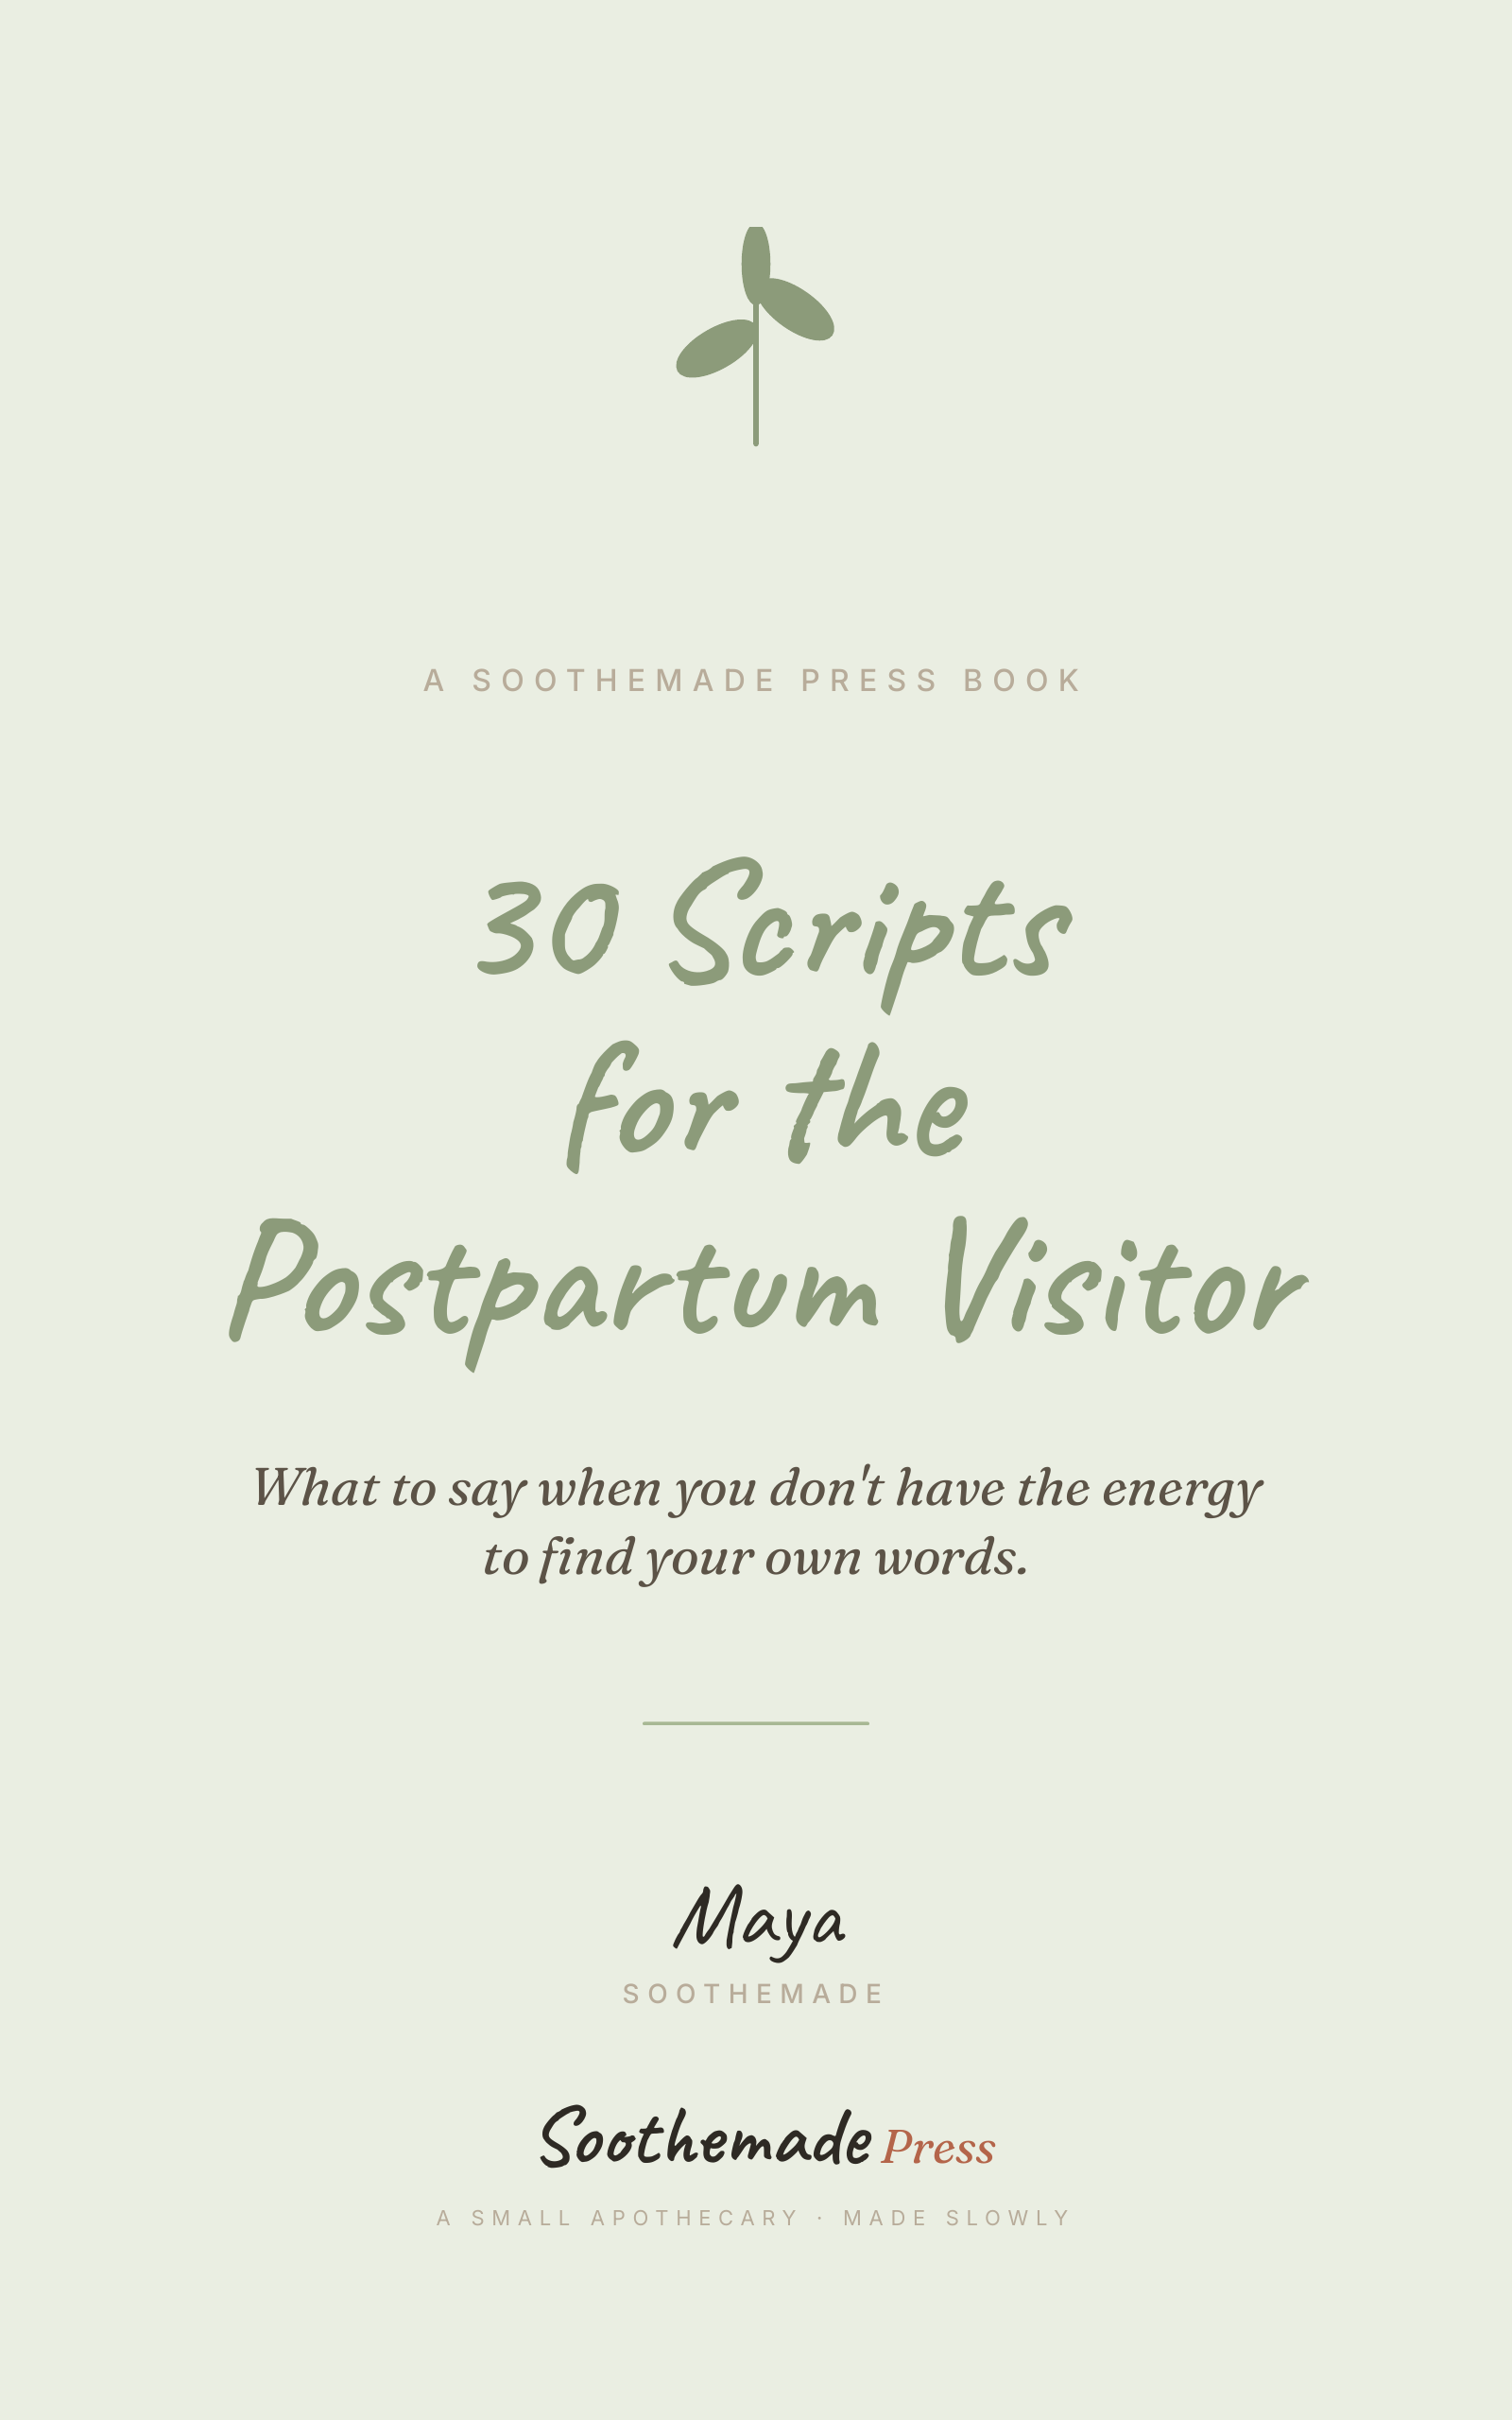
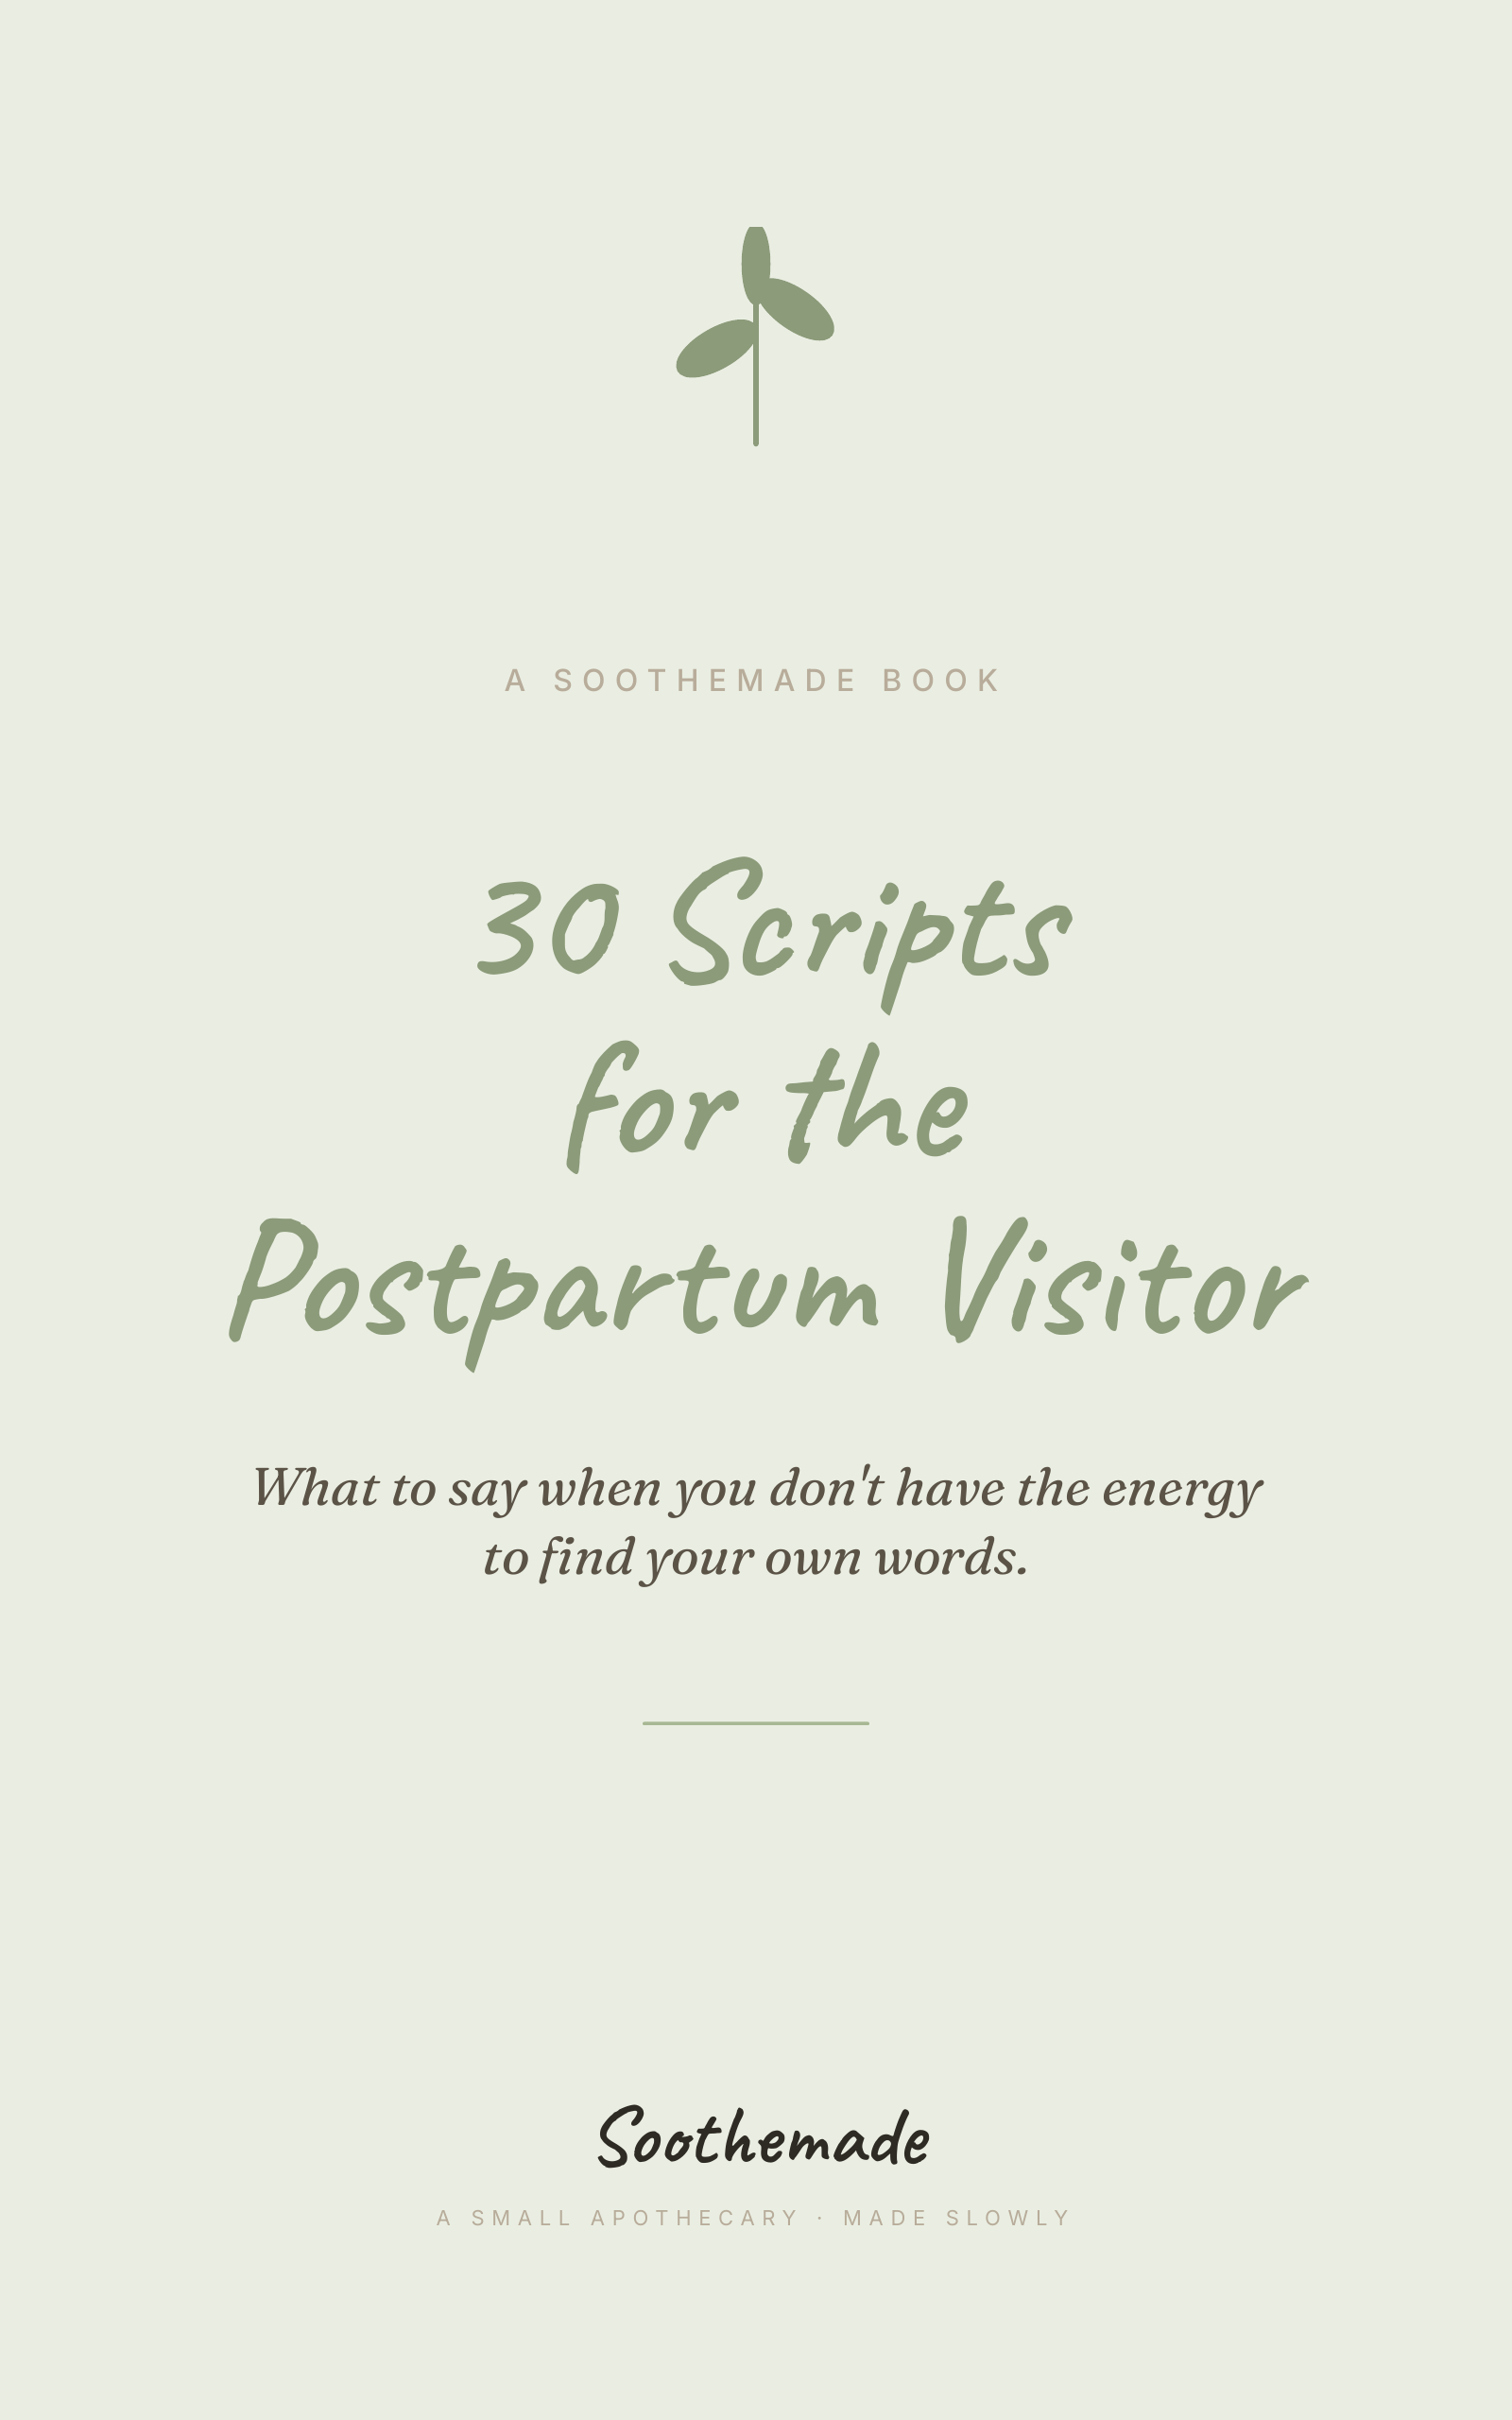
B01: drop "Soothemade Press" sub-brand, remove Maya from cover
Owner call after the launch: one brand is simpler than two, and the
Kindle "publisher" field reads cleaner as plain Soothemade.

Cover:
- "A Soothemade Press Book" → "A Soothemade Book" (top plate)
- Removed the Maya + Soothemade small-caps author block from below
  the divider. Maya is the voice inside the book, not the byline
  on the cover, mirroring the existing PDF cover convention.
- "Soothemade Press" → "Soothemade" (bottom wordmark, terracotta
  "Press" italic span removed).

Metadata + manuscript:
- metadata.yaml: author Maya → Soothemade, publisher Press →
  Soothemade, identifier soothemade-press-b01 → soothemade-b01
- manuscript YAML header: same author + publisher swap
- "About Soothemade Press" back matter renamed to "About Soothemade"
  with framing rewritten (books as part of the apothecary, not a
  separate imprint)
- Closing line "A Soothemade Press book" → "A Soothemade book"
- "Also from Soothemade" cross-sell B02 mention updated

AS_BUILT § 2: reverted. Press is back to "Reserved, not built" with
a note that books ship under the master brand.

Also adding a .gitignore. The repo never had one (per AS_BUILT § 8
the convention has been informal); .claude/ and .tmp/ build artifacts
have been managed by careful git-add discipline. Codifying the rule
so the next git-add doesn't accidentally sweep worktrees.

Cover re-rendered (137KB, slightly smaller than 152KB after the
author-block removal). book.epub regenerated (148KB).

Changed region(s): [[0.3438, 0.875, 0.6562, 0.9062], [0.4375, 0.7812, 0.5625, 0.8438]]

diff --git a/ebooks/B01_30-scripts-postpartum-visitor/cover.html b/ebooks/B01_30-scripts-postpartum-visitor/cover.html
@@ -154,7 +154,7 @@ html, body {
     <ellipse cx="138" cy="80" rx="44" ry="20" fill="#8C9B7A" transform="rotate(35 138 80)"/>
   </svg>
 
-  <div class="imprint-plate">A Soothemade Press Book</div>
+  <div class="imprint-plate">A Soothemade Book</div>
 
   <h1 class="title">30 Scripts<br>for the<br>Postpartum Visitor</h1>
 
@@ -162,12 +162,9 @@ html, body {
 
   <div class="divider"></div>
 
-  <div class="author">Maya<small>Soothemade</small></div>
-
   <div class="foot">
     <div class="foot-mark">
       <span class="foot-soothemade">Soothemade</span>
-      <span class="foot-press">Press</span>
     </div>
     <div class="foot-tag">A Small Apothecary · Made Slowly</div>
   </div>

diff --git a/ebooks/B01_30-scripts-postpartum-visitor/epub.css b/ebooks/B01_30-scripts-postpartum-visitor/epub.css
@@ -1,5 +1,5 @@
 /*
- * Soothemade Press epub stylesheet
+ * Soothemade ebook stylesheet
  *
  * Kindle and most readers strip a lot of CSS for accessibility
  * (user-controlled font, sizing, etc). Keep this minimal: structure,

diff --git a/ebooks/B01_30-scripts-postpartum-visitor/manuscript.md b/ebooks/B01_30-scripts-postpartum-visitor/manuscript.md
@@ -1,8 +1,8 @@
 ---
 title: "30 Scripts for the Postpartum Visitor"
 subtitle: "What to say when you don't have the energy to find your own words"
-author: "Maya"
-publisher: "Soothemade Press"
+author: "Soothemade"
+publisher: "Soothemade"
 rights: "© 2026 Soothemade. Personal use only. All other rights reserved."
 language: en-US
 ---
@@ -440,13 +440,13 @@ Maya is the voice behind Soothemade. A postpartum doula and mother of two, she w
 
 She is a fictional founder, a composite of every parent who has emailed Soothemade to say "I felt like you had been in my house." That composite voice is the brand voice. The decisions, the products, and this book were all written under that voice.
 
-# About Soothemade Press
+# About Soothemade
 
-Soothemade Press is the books imprint of Soothemade, a small apothecary of printables, planners, and cards for new parents.
+Soothemade is a small apothecary of printables, planners, cards, and books for new parents.
 
-The Press exists for the moments when a journal does not fit the need. When you want to read, not write. When you are looking up the chapter at 3am on your phone, not pulling a printed page out of a drawer.
+The books exist for the moments when a journal does not fit the need. When you want to read, not write. When you are looking up the chapter at 3am on your phone, not pulling a printed page out of a drawer.
 
-Each book in the Press is adapted from a Soothemade Notes printable. The printable version contains writing space and prompts. The book version contains the reading. Both work. Some readers want one, some want the other, some want both. You can find the printable version of every book at notes.soothemade.com.
+Each book is adapted from a Soothemade printable. The printable version contains writing space and prompts. The book version contains the reading. Both work. Some readers want one, some want the other, some want both. You can find the printable version of every book at notes.soothemade.com.
 
 # Also from Soothemade
 
@@ -456,7 +456,7 @@ Other Soothemade products that pair with this book:
 
 - **The Partner's Postpartum Playbook**, for the non-birthing partner. Many of the scripts in this book are most effective when your partner is the one delivering them. The Playbook is their companion.
 - **The Visitor Welcome Packet**, for when you are ready for visitors. Ground rules, food drop menu, "how to help" list, and a meal-train tracker.
-- **The Asking for Help Script Pack**, the inverse of this book. Thirty scripts for asking specific people for specific help. The book version is coming as the second title from Soothemade Press.
+- **The Asking for Help Script Pack**, the inverse of this book. Thirty scripts for asking specific people for specific help. The book version is the second Soothemade title, coming next.
 
 # Crisis lines
 
@@ -486,4 +486,4 @@ Postpartum mood disorders are common and treatable. Asking for help is not a sig
 
 *This book is for planning and personal use only. It is not legal, medical, or psychological advice. For specific concerns about your postpartum recovery or your baby's health, please follow your obstetric and pediatric providers' guidance.*
 
-*A Soothemade Press book. Made slowly, in plain language.*
+*A Soothemade book. Made slowly, in plain language.*

diff --git a/ebooks/B01_30-scripts-postpartum-visitor/OUTLINE.md b/ebooks/B01_30-scripts-postpartum-visitor/OUTLINE.md
@@ -5,14 +5,14 @@
 **30 Scripts for the Postpartum Visitor**
 *What to say when you don't have the energy to find your own words*
 
-By Maya | Soothemade Press
+By Maya | Soothemade
 
 ## Structure
 
 ### Front matter
 
 - **Title page**: Title, subtitle, author, imprint
-- **Copyright page**: © 2026 Soothemade Press / Soothemade. Personal use. Crisis-line reference.
+- **Copyright page**: © 2026 Soothemade / Soothemade. Personal use. Crisis-line reference.
 - **Dedication**: "For the parent at the door, in the third day, in the fourth trimester."
 - **Table of Contents**: Generated from headings
 - **A note from Maya**: ~300 words, expanded from the PDF intro
@@ -42,7 +42,7 @@ By Maya | Soothemade Press
 ### Back matter
 
 - **About Maya**: ~100 words, fictional-founder framing per brand persona.
-- **About Soothemade Press**: ~100 words, the imprint's mission.
+- **About Soothemade**: ~100 words, the imprint's mission.
 - **Also from Soothemade**: cross-sell to the printable version (P02) + adjacent products (P04, P15, P49, P55).
 - **Crisis-line page**: PSI, MMH hotline, 988, international equivalents.
 
@@ -59,6 +59,6 @@ Nothing significant. The PDF was already content-dense; the ebook is the same co
 
 1. The "Why No Is Hard Postpartum" chapter (the most important addition — frames the whole book)
 2. Section intros for each chapter (gives reading flow vs. just-a-list-of-scripts)
-3. "About Maya" + "About Soothemade Press"
+3. "About Maya" + "About Soothemade"
 4. Cross-sells / "Also from..." back-matter page
 5. Expanded crisis-line page (more lines, US + UK + Canada + Australia)

diff --git a/ebooks/B01_30-scripts-postpartum-visitor/README.md b/ebooks/B01_30-scripts-postpartum-visitor/README.md
@@ -1,6 +1,6 @@
 # B01 — 30 Scripts for the Postpartum Visitor
 
-The first book under **Soothemade Press**. Adapted from the printable P02 "Saying No" Script Pack.
+The first book under **Soothemade**. Adapted from the printable P02 "Saying No" Script Pack.
 
 ## Source
 
@@ -16,7 +16,7 @@ Type 1 conversion (read-ready). The PDF was already 95% narrative content. The a
 - Each PDF "Section" becomes a numbered **Chapter** with a 150-250 word chapter intro that frames the scripts.
 - The 30 scripts and 5 templates are kept **verbatim** — they are the core product.
 - A new chapter "Why 'No' Is Hard Postpartum" expands the intro.
-- Back matter (about Maya, about Soothemade Press, also-from-the-imprint cross-sells, crisis line) added.
+- Back matter (about Maya, about Soothemade, also-from-the-imprint cross-sells, crisis line) added.
 - No fillable elements (this is a read, not a journal).
 
 ## Files

diff --git a/AS_BUILT.md b/AS_BUILT.md
@@ -37,10 +37,10 @@ After you've finished a change, scan this file's section for that area and amend
 |---|---|---|---|
 | **Master brand** | **Soothemade** | `soothemade.com` (owned) | Active; umbrella site is a one-page intro |
 | **Active sub-line** | **Soothemade Notes** | `notes.soothemade.com` | Live on Cloudflare Workers |
-| **Active sub-line** | **Soothemade Press** | `press.soothemade.com` (reserved) | Books imprint, .epub format for Kindle + direct sales. First title shipped 2026-05-20. See § 19. |
 | Reserved sub-line | Soothemade Kitchen | `kitchen.soothemade.com` | Reserved, not built |
 | Reserved sub-line | Soothemade Studio | `studio.soothemade.com` | Reserved, not built |
 | Reserved sub-line | Soothemade Field | `field.soothemade.com` | Reserved, not built |
+| Reserved sub-line | Soothemade Press | `press.soothemade.com` | Reserved, not built. Books ship under the master `Soothemade` brand instead. |
 
 Sub-lines share: voice, visual identity, brand kit, typography, structural rules. They differ in: audience-specific vocabulary, example scenarios, accent-color emphasis.
 
@@ -900,6 +900,7 @@ After running, commit the seven `product.pdf` files.
 
 One line per commit that changes structural project state. Most-recent first.
 
+- **2026-05-28** — **Dropped the "Soothemade Press" sub-brand. Books ship under just "Soothemade." Maya removed from the front cover.** Same-day follow-up to the B01 launch commit. Owner call: one brand is simpler than two, and the customer-facing "publisher" field on Kindle reads cleaner as plain `Soothemade`. AS_BUILT § 2 reverted, Press is back to "Reserved, not built" with a note that books ship under the master brand. **Cover changes:** "A Soothemade Press Book" → "A Soothemade Book" (top plate); removed the `Maya` + `Soothemade` author block from below the divider (Maya is the voice inside the book, not the byline on the cover, mirroring the existing PDF cover convention where the brand mark is on the cover and Maya signs the content); "Soothemade Press" → "Soothemade" (bottom plate, terracotta "Press" italic span deleted). **Metadata changes:** `author: Maya` → `author: Soothemade`, `publisher: Soothemade Press` → `publisher: Soothemade` (both in metadata.yaml and the manuscript YAML header). **Manuscript back-matter changes:** "About Soothemade Press" page renamed to "About Soothemade" with the framing rewritten to describe books as part of the apothecary (alongside printables/planners/cards) rather than a separate imprint. Closing line "A Soothemade Press book. Made slowly, in plain language." → "A Soothemade book. Made slowly, in plain language." The "Also from Soothemade" cross-sell page already used the right framing; B02 mention rewritten from "the second title from Soothemade Press" to "the second Soothemade title, coming next." README, OUTLINE, epub.css comments all swept for Press references. Cover re-rendered (130KB after the removal, slightly smaller than the 152KB version). Book.epub re-rendered. Visual verification: cover inspected, cleaner without the author block, sage divider now anchors visually to the bottom plate without competing typography in between.
 - **2026-05-28** — **Launched Soothemade Press. First ebook (B01) shipped: *30 Scripts for the Postpartum Visitor*.** New imprint, new product line, new repo top-level: `ebooks/`. The Press is the books-format arm of Soothemade, parallel to Notes (printables). Brand-architecture status moves from "Reserved" to "Active sub-line" in § 2. Adaptation strategy: each book is its own product, not "a PDF without the lines" — the conversion from fillable journal to readable book is a real rewrite that adds book-shaped front matter (title page, dedication, TOC, expanded "note from Maya"), per-chapter intros that frame the material, and back matter (about Maya, about the Press, cross-sells, expanded crisis-line page). B01 source: P02 "Saying No" Script Pack (postpartum/Wave 1 anchor). 16 chapters: dedication + 10 numbered chapters + back matter. ~7,500 words. Front-matter is voice-of-Maya, body is the 30 scripts verbatim (the core product stays untouched), each chapter has a 150-250 word intro that gives reading flow vs the printable's standalone-page format. New tooling: `soothemade-ebook` Docker image extends `soothemade-render-preview` with pandoc + imagemagick. `scripts/render_ebook.py` is a thin wrapper that (a) renders `cover.html` → PNG at 1600×2560 via WeasyPrint + pdftoppm, (b) runs pandoc with `--epub-cover-image` + `--css epub.css` + metadata.yaml, (c) outputs `book.epub` (163KB for B01). Pandoc cwd-fix: command runs inside the book dir so the metadata.yaml's relative paths (`cover-image: cover.png`, `css: epub.css`) resolve. AI-punctuation scrubber updated to walk `ebooks/B*_*/manuscript.md` as well as `products/`. **Cover design language:** sage paper (#EAEEE2), Caveat title in primary sage (#8C9B7A), Fraunces italic subtitle in ink-soft (#5C5347), muted-sage divider, Caveat author signoff with Inter small-caps imprint plate below, custom SVG sprig at top, "Soothemade Press" wordmark at bottom in Caveat + Fraunces italic terracotta (the same "Notes" treatment but with Press in terracotta). Visual verification: cover.png inspected, brand-consistent with the existing PDF cover language, would-be-recognizable on a Kindle shelf next to the 11 future titles in the planned bibliography. **Bibliography roadmap (12 books):** Tier 1 read-ready (B1 P02 ✓, B2 P49 Asking for Help, B3 P34 Newborn Cue Decoder, B4 P13 Big Feelings, B5 P51 Pregnancy Safety Reference). Tier 2 needs adaptation (B6 P52 Birth Anxiety, B7 P03 Slow Motherhood manifesto, B8 P04 Partner Postpartum, B9 P55 Partner Pregnancy, B10 P07 Newborn Survival, B11 P46 Eldercare First 90 Days, B12 P50 Family Caregiver). Tier 3 hold (P08/P11/P35/P36/P41/P53/P56 are pure journals, do not convert). Pricing direction: $4.99 per book on Kindle (70% royalty bracket). KDP upload + distribution are user-driven, not in this commit.
 - **2026-05-22** — **Replaced the PMP-imported rules with a Soothemade-native care contract. Locked the persona to Maya. Catalog-wide signature swap. All 55 PDFs re-rendered. Catalog now scores 55/55 against the care contract.** The earlier same-day commit adopted `varunvashisht1/VarunVashisht-Web/WRITING-RULES.md` as a literal contract. That was the wrong framing: the PMP doc was an *example* of what a quality contract looks like, not the contract itself. The right contract for Soothemade is the one in the rewritten `WRITING-RULES.md` — six care signals organized around whether a paying customer feels cared for. The signals: (1) scene anchor in the opening note (concrete time / room / body / overheard line); (2) the voice has a face (`*With care, Maya*` signoff); (3) disclaimer voiced not armored (P09 is the model); (4) modest about what it does (no `transform`, `unlock`, `you deserve`, `breakthrough`); (5) hard things named not euphemized (`mom rage`, `loss`, `the primary witness of someone else's diminishment`); (6) each product is its own shape (catalog-wide form variety check). **Persona locked to Maya** (Option B in `brand/persona.md`, previously default-not-locked). All 92 personal-note signoffs across 55 product `content.md` files swapped from `*Soothemade*` to `*With care, Maya*` via `.tmp/apply_maya_signoff.py` (dry-run + apply pattern). Mirrors the umbrella's `*with care, the studio*` pattern, adapted to remove the banned em-dash. The brand mark `Soothemade` continues to render on PDF cover + colophon via the template — Maya is the personal voice, Soothemade is the studio. **Targeted content fixes:** P23 `content.md:25` "I screamed at my three-year-old in the laundry room when he was four" — dropped the trailing "when he was four" continuity error (the most-quoted opening sentence in the catalog now reads cleanly). P04 `content.md:279` "Other parents look like they're crushing it. They're not." → "Other parents look like they have it figured out. They don't." — preserves the voice-defining puncture without the wellness-mill `crushing it` phrase. P55 `content.md:657` worksheet field "WHAT I WANT FOR MYSELF, IN THIS NEW CHAPTER" → "WHAT I WANT FOR MYSELF, ONCE THE BABY IS HERE" — plainer, less generic-wellness. P54 `content.md:9-11` opening rewritten to add scene anchors — "You have a 10am meeting tomorrow, an OB appointment Thursday afternoon, and you have not told anyone at the office yet" — the only product that was failing Signal 1. **Auditor rebuilt** (`scripts/audit_writing_rules.py`) from a regex-hygiene checker into a per-product care scorecard. Six signals scored. Code blocks (read-aloud scripts, ASCII template fields) and `*"..."*` quoted critiques are stripped before scanning for banned vocabulary — the rules apply to the brand's voice, not to phrases the brand is quoting back to puncture. **All 55 PDFs re-rendered** via Docker `--all`; `pdfs/` flat-folder mirror updated. **Final state:** 55/55 products pass all four per-product signals. Catalog-wide: 0 disclaimer-reuse clusters of 4+ products (disclaimers are already varied). 7/55 (13%) of products use the `## What this [X] is, and is not` H2 framework — well below the 50% template-uniformity threshold.
 - **2026-05-22** — **Adopted extended writing-quality rules from the PMP audit lineage. Catalog-wide PDF audit + 7 targeted fixes across 6 products.** New repo-root doc `WRITING-RULES.md` adapts `varunvashisht1/VarunVashisht-Web/WRITING-RULES.md` (the quality gates that produced the audited PMP V8 Study Guide) to Soothemade. Imports 20 banned AI-tell terms, the filler-phrase ban, density rules (paragraphs ≤600 chars, sentences ≤50 words), substance + rhythm + repetition rules. Documents Soothemade-specific carve-outs inline: (a) `actually` is preserved as voice-defining ("what actually moves supply", "meals you actually like" — the brand's truth-vs-performance wedge); (b) `harness` as a physical noun stays (car-seat harness, high-chair harness); (c) literal time-of-day uses of "at the end of the day" stay; (d) American spelling held (audience is US new parents, crisis lines are US-based — British would clash); (e) PMP's "Industry Term (Plain question)" pattern does not fit Soothemade's intimate voice and is skipped. New auditor `scripts/audit_writing_rules.py` is read-only, walks every `content.md` + `web.md`, flags violations with file + line + matched text. Catalog-wide audit (55 products, 110 files) found only the long tail — Soothemade's existing voice guide and punctuation scrubber had already driven content to a high baseline. Seven content fixes applied: (1) P30 `content.md:401` "biggest leverage point" → "biggest single thing you can do". (2) P50 `content.md:772` "Leveraging employer's EAP" → "Using employer's EAP". (3) P41 `content.md:21` "fertility journey" → "fertility". (4) P06 `content.md:337` "going forward" → "from here". (5) P09 `content.md:332` "going forward" → "from here". (6) P34 `content.md:195` 51-word "Call the pediatrician if" criteria-list sentence split into 5 sentences. (7) P35 `content.md:15` 51-word "It is the place to write down" list-as-sentence split into 6 sentences. P26 `web.md` body also had a borderline 51-word inclusive-list sentence split into two (web body doesn't affect PDF — Astro only). Seven PDFs re-rendered via Docker (`P06`, `P09`, `P30`, `P34`, `P35`, `P41`, `P50`); flat-folder mirror at `pdfs/` updated. Zero em-dashes, zero semicolons, zero `comprehensive`/`holistic`, zero `in order to`, zero `in terms of`, zero `due to the fact that`, zero `ultimately`, zero `basically` found anywhere in PDF source — the brand was already very close to the PMP bar.